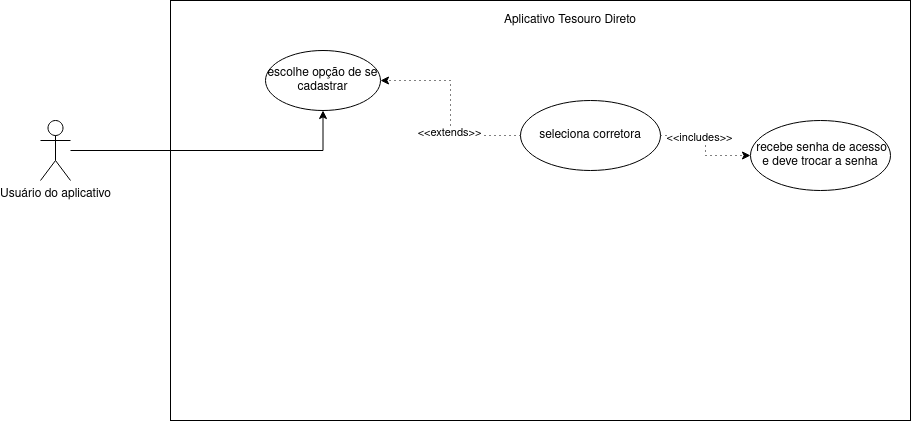
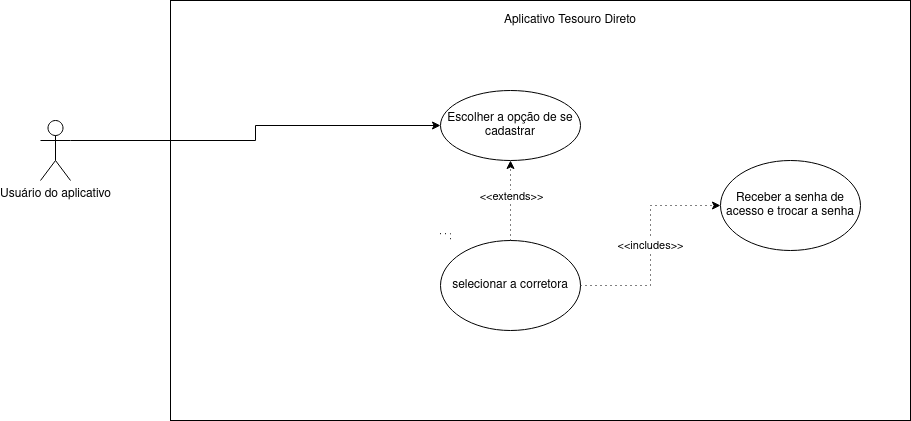
modificado diagrama para ficar com verbos corretos

diff --git a/docs/diagrama-caso-uso.md b/docs/diagrama-caso-uso.md
@@ -1,4 +1,4 @@
-# <center> TEMPLATE
+# <center> Diagrama de Caso de Uso
 
 
 ### Histórico de versão<br>
@@ -6,6 +6,7 @@
 |Data | Versão | Descrição | Autor(es)|
 | -- | -- | -- | -- |
 | 28.08.2021 | 0.1 | Criação do documento |Lucas Melo dos Santos|
+| 28.08.2021 | 0.2 | Correção de diagrama com verbos incorretos |Lucas Melo dos Santos|
 
 ### Participantes
 
@@ -17,7 +18,7 @@
 
 ### Introdução
 <div align="justify"> 
-O diagrama de caso de uso é um "índice gráfico" de casos de uso. Ele representa os atores de um sistema (como pequenos bonecos) e os casos de uso (como elipses). Em um diagrama de caso de uso pode ter também dois tipos de relacionamento: (1) ligando ator com caso de uso, que indicam que um ator participa de um determinado caso de uso; (2) ligando dois casos de uso, que indicam que um caso de uso inclui ou estende outro caso de uso.[1]
+&emsp;&emsp O diagrama de caso de uso é um "índice gráfico" de casos de uso. Ele representa os atores de um sistema (como pequenos bonecos) e os casos de uso (como elipses). Em um diagrama de caso de uso pode ter também dois tipos de relacionamento: (1) ligando ator com caso de uso, que indicam que um ator participa de um determinado caso de uso; (2) ligando dois casos de uso, que indicam que um caso de uso inclui ou estende outro caso de uso.[1]
 
 <br><br>
 
@@ -46,7 +47,7 @@ O diagrama de caso de uso é um "índice gráfico" de casos de uso. Ele represen
 <h4 align = "center"><img style="width: 100%" src="../assets/caso-uso/acompanha-uc.png"> Figura 05 - Caso de uso - Acompanhar investimento - Autoria Própria </h4>
 
 <h3>UC06- Caso de uso 06 - Resgatar investimento</h3>
-<h4 align = "center"><img style="width: 100%" src="../assets/caso-uso/resgatar-uc.png"> Figura 03 - Caso de uso - Resgatar investimento - Autoria Própria </h4>
+<h4 align = "center"><img style="width: 100%" src="../assets/caso-uso/resgatar-uc.png"> Figura 06 - Caso de uso - Resgatar investimento - Autoria Própria </h4>
 
 
 </div><br>
